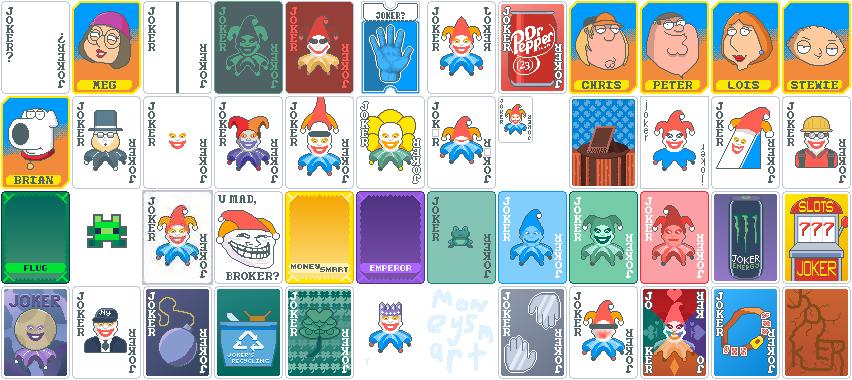
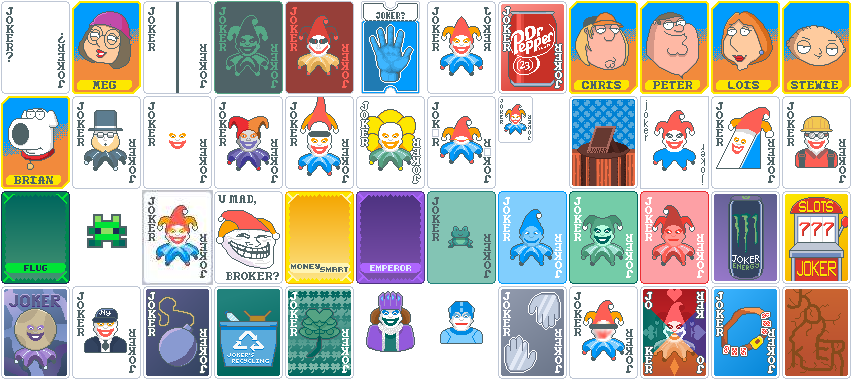
README update and art too

Changed region(s): [[0.4272, 0.7526, 0.5798, 0.9842]]

diff --git a/README.md b/README.md
@@ -1,23 +1,35 @@
 # Jokes Of A Feather || Doctor Ducko
 
-## Update this sometime soon you gosh darn moron - sean 2025
-
-## A Work-in-Progress Balatro Content Mod with Semi-Decent Balance
+## A Balatro Mod adding a whole buncha stuffs
 
 ## Overview
-"Jokes of a Feather" adds a decent handful of new jokers, seals, enhancements, decks, and consumables with balance that only somewhat respects the original Balatro.
+Jokes of a Feather adds new Jokers, Decks, Enhancements, Seals, and a whole new Consumable type (Trinkets) to Balatro!
 
-This mod is still in development and things are obviously subject to change, yadda yadda yadda
+<p align="center" width="100%">
+<img src="art/github/jokers_1.png" alt="The first 15 Jokers" width="50%" />
+</p>
+
+<p align="center" width="100%">
+<img src="art/github/jokers_2.png" alt="The second 15 Jokers" width="50%" />
+</p>
+
+<p align="center" width="100%">
+<img src="art/github/jokers_3.png" alt="The last 15 Jokers" width="50%" />
+</p>
+
+<p align="center" width="100%">
+<img src="art/github/trinkets_1.png" alt="Trinket Cards" width="50%" />
+</p>
 
 Currently added:
-* 41 Jokers
-    * 9 Common
-    * 11 Uncommon
-    * 6 Rare
+* 45 Jokers
+    * 12 Common
+    * 16 Uncommon
+    * 8 Rare
     * 3 Legendary
     * 6 Family Guy
 * 4 Decks
-* 6 Tarot Cards
+* 5 Tarot Cards
 * 5 Spectral Cards
 * 12 Trinket Cards
 * 2 Vouchers
@@ -43,8 +55,16 @@ Sunflower Joker
 Irritating Joker
 * Scored cards in the first played hand of round gain +9.9 bonus chips when scored
 
+Frug
+* +1 Joker slot and +5 Mult
+* +1 Mult per copy and +X0.5 Mult per 5 copies
+* Multiple copies can appear in the shop
+
 Recycling Bin
 * Gain $1 every 5 cards discarded
+
+Long Fuse
+* Dynamite Cards have a 1 in 4 chance of not losing a turn
 
 Simple Joker
 * +3 Mult if scored card is not a face card
@@ -62,11 +82,18 @@ Abundant Joker
 Tinkerer Joker
 * Create a random Trinket card at the start of a blind
 
+Brainless Joker
+* Gains +X0.5 Mult when a Dynamite Card explodes
+
 Colorful Joker
 * Retrigger all scored cards of a specific suit, changes at the end of the round
 
 Lunar Joker
 * +2 Mult per level on all discovered poker hands
+
+The Witness
+* No cards are considered face cards
+* Has a higher priority than Paredolia
 
 Jokr
 * +20 Mult if the scored card does not contain an "E" in it's name or number
@@ -84,7 +111,7 @@ Dr. Pepper
 * +50 Mult, -5 Mult per round
 
 Straight Line
-* Gains X0.15 Mult if played hand contains a Straight
+* Gains X0.2 Mult if played hand contains a Straight
 
 Square Roots
 * Played Aces, 4s, and 9s score X1.5 Mult
@@ -160,7 +187,7 @@ Brian Griffin
 Tinkerer's Deck
 * Start with a Tinkerer Joker, +2 consumable slots
 
-Starlight Deck
+Glimmering Deck
 * Start run with all Gold Cards, Earn no Interest
 * Credit: Chilli
 
@@ -183,9 +210,6 @@ The Explosion
 
 The Feather
 * Enhances 3 cards into Lightweight Cards
-
-The Inventor
-* Create a random Trinket card
 
 The Flip
 * Enhances 1 card into a Swap Card
@@ -212,6 +236,21 @@ Gloves
 
 Wallet
 * Gain between $2 and $8
+
+Comic Book
+* Create a random Joker
+
+Stargazing Guide
+* Create a random Planet
+
+Psychic Reading
+* Create a random Tarot
+
+Specter
+* Create a random Spectral
+
+Trinkets
+* Create a random Trinket
 
 Potato Chips
 * Add +10 permanent chips to 3 cards
@@ -254,9 +293,12 @@ Lucky Seal
 * 1 in 15 chance for 2 retriggers
 
 # Credits
-Doctor Ducko - Programmer, Artist
-Chilli - Ideas
-Hydrop0x - Ideas
-The Several Public Resources for code refrences
+## Doctor Ducko
+* Programmer, Artist
+## Chilli
+* Ideas
+## Hydrop0x
+* Ideas
+## The Several Public Resources for code refrences
 * Example mods from the wiki
 * Vanilla Remade by nh6574 and the-Astra on github
